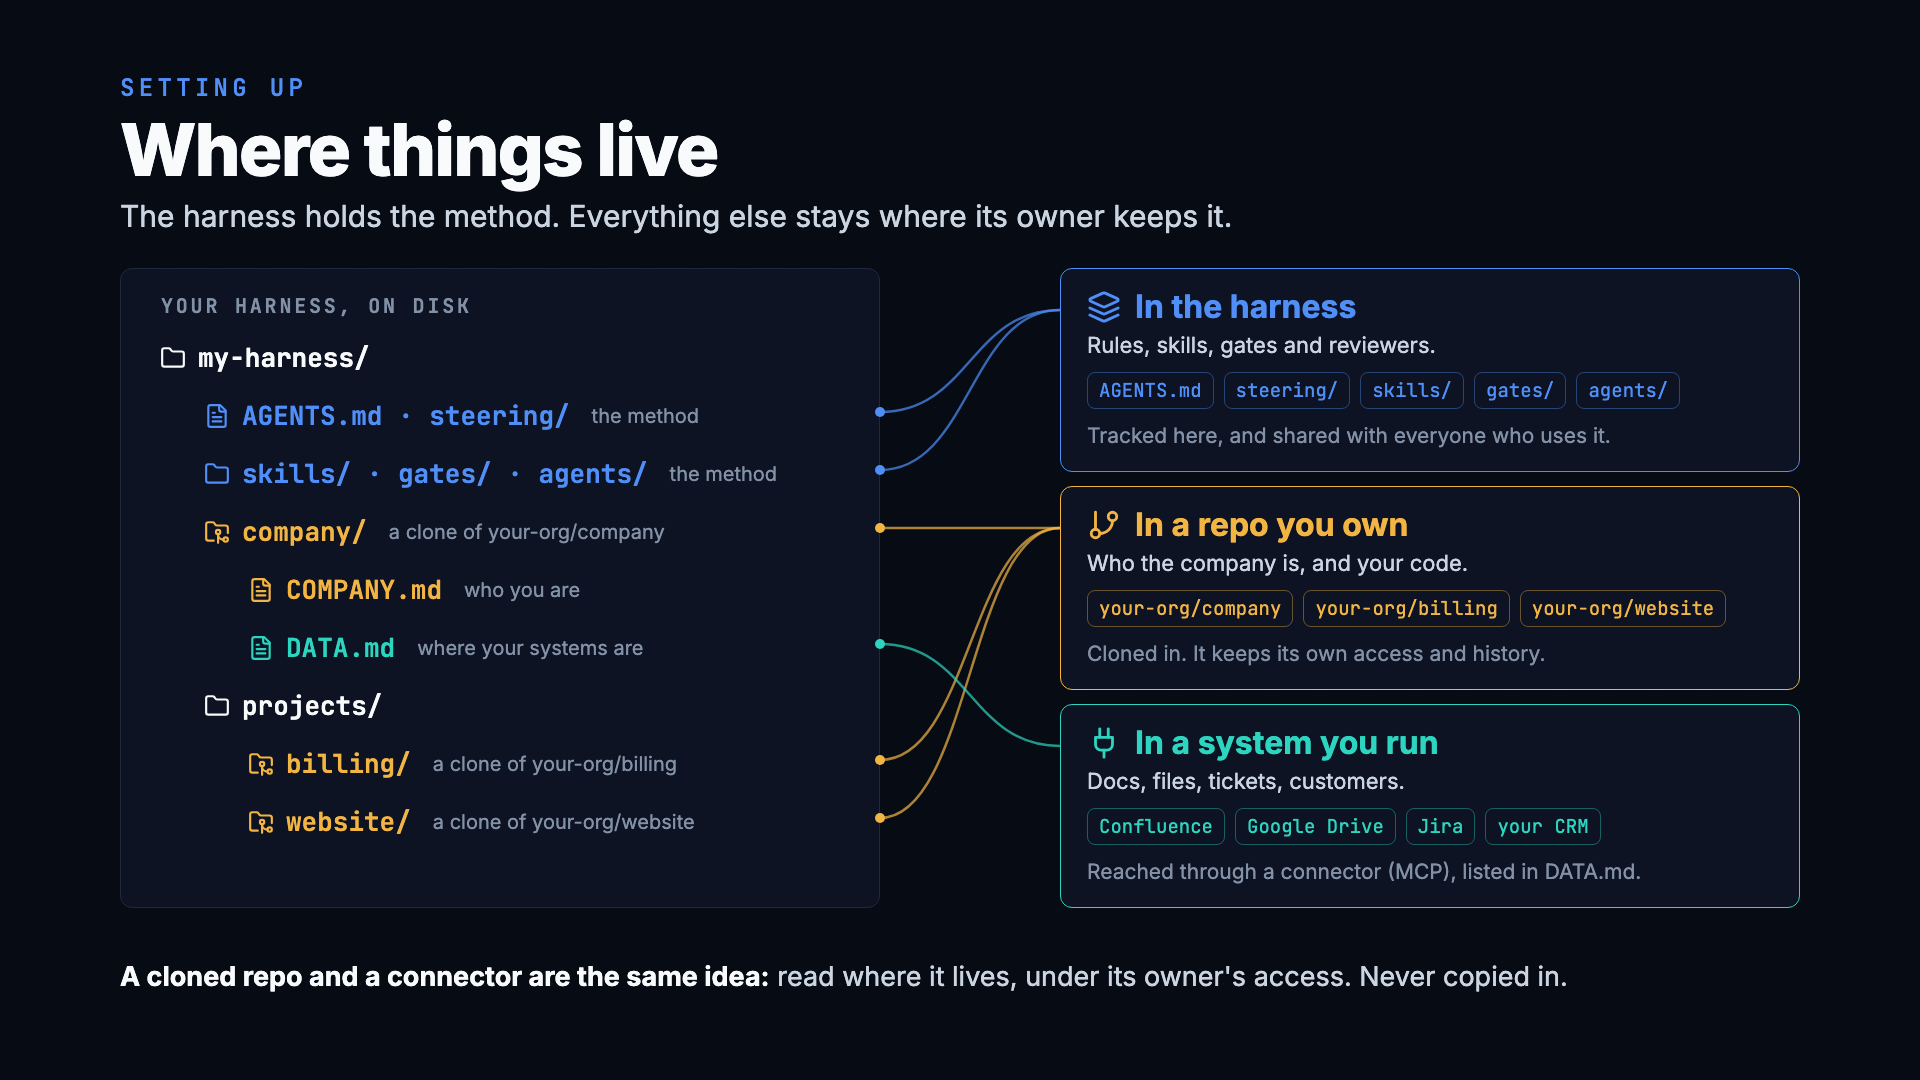
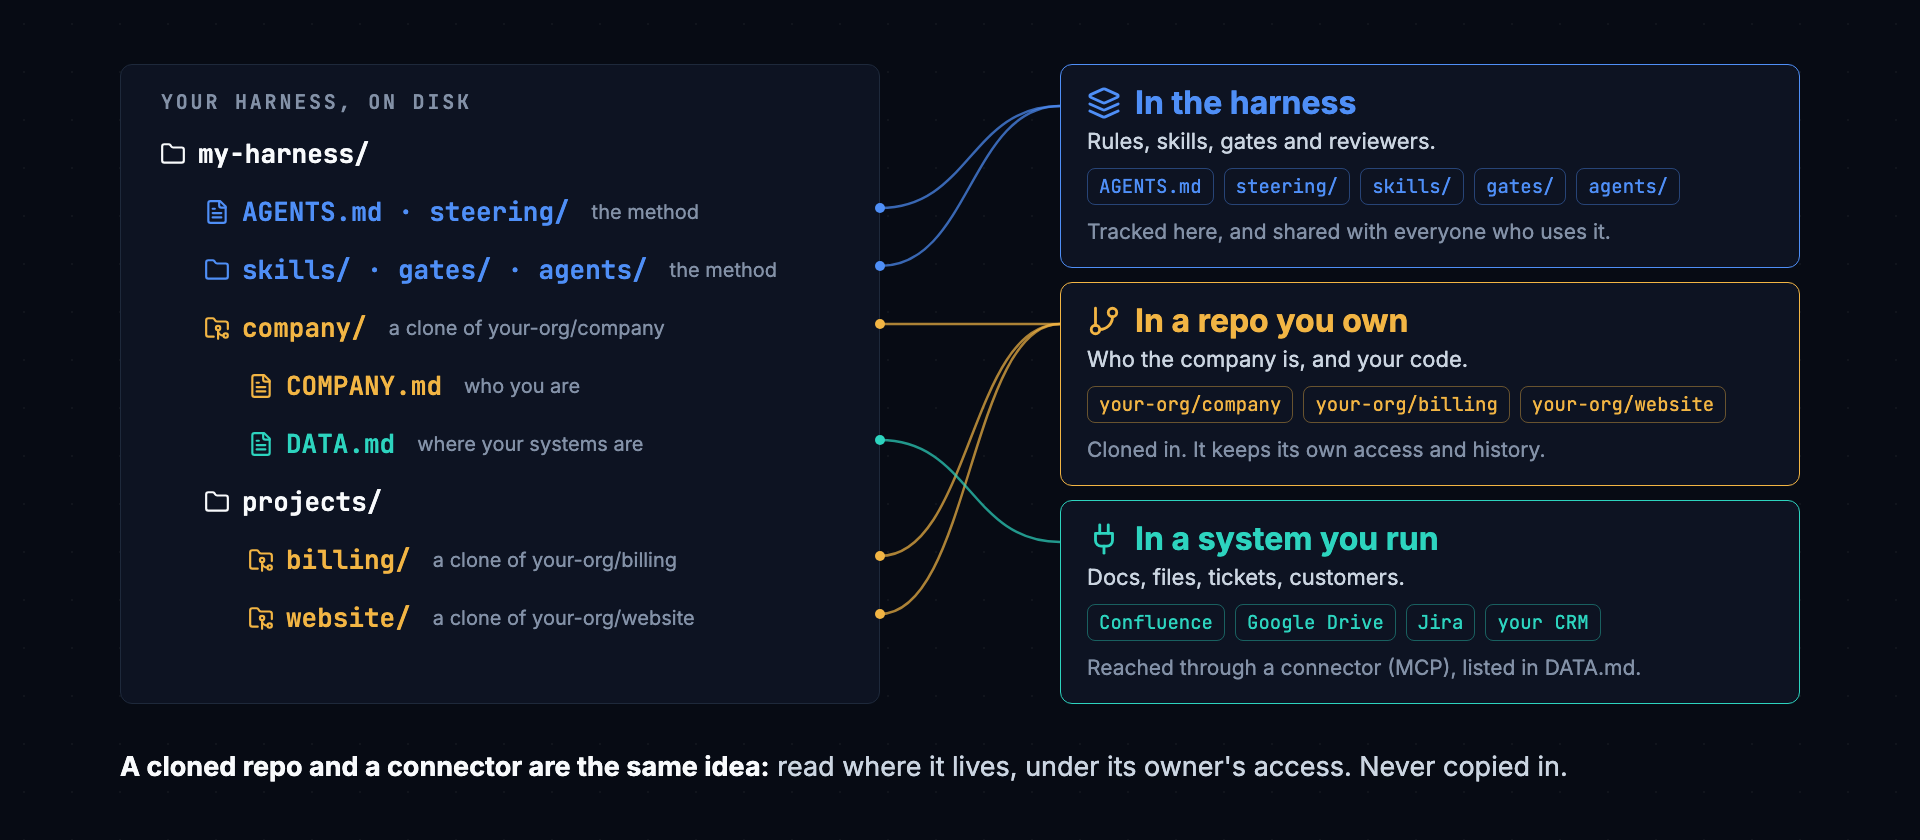
Fold the company setup into the README, and drop the figure's own title (#137)

diff --git a/tests/test_steering.py b/tests/test_steering.py
@@ -38,8 +38,8 @@ SHIPPED = ["steering/*.md", "examples/**/*", "skills/orientation/*", "skills/lea
            "skills/review-pr/*", "skills/review-tests/*", "skills/review-skill/*",
            "skills/whats-new/*", "CHANGELOG.md",
            "agents/reviewer.md", "agents/security-reviewer.md", "agents/ceo.md", "agents/cto.md",
-           "agents/cmo.md", "agents/gc.md", "gates/README.md", "docs/company.md",
-           "docs/COMPANY.example.md", "projects/README.md", "README.md", "HOW-IT-WORKS.md",
+           "agents/cmo.md", "agents/gc.md", "gates/README.md",
+           "projects/README.md", "README.md", "HOW-IT-WORKS.md",
            "EXERCISES.md", "STARTER-SKILLS.md", "scripts/*", "tests/*", ".claude/**/*",
            ".githooks/*", ".github/**/*"]
 
@@ -102,7 +102,13 @@ class WhereThingsLive(unittest.TestCase):
     def test_readme_names_the_three_places(self):
         text = section((ROOT / "README.md").read_text(), "## Where things live", "## ")
         self.assertTrue(text, "README.md has no ## Where things live section")
-        rows = [line for line in text.splitlines() if line.startswith("|")]
+        # The section's first table; a later one (the forms company/ takes) is its own.
+        rows = []
+        for line in text.splitlines():
+            if line.startswith("|"):
+                rows.append(line)
+            elif rows:
+                break
         body = [line for line in rows[1:] if not re.match(r"^\|[\s|:-]+\|$", line)]
         self.assertEqual(len(body), 3, "the table should have one row per place things live")
         self.assertIn("company/DATA.md", text)

diff --git a/skills/orientation/SKILL.md b/skills/orientation/SKILL.md
@@ -168,8 +168,8 @@ Fill it from the person's answers, not the example rows. Write on a yes.
 
 Say once that `company/` is gitignored, so this stays on their machine, and that
 every session reads it: the next agent that opens the repo knows where to look
-without asking. [`docs/company.md`](../../docs/company.md) says how to share it with a team once their
-copy is private.
+without asking. The README's [Where things live](../../README.md#where-things-live) says how to share it with a
+team once their copy is private.
 
 ### 5. Write the company record
 
@@ -183,7 +183,7 @@ in the form it's in.
 
 **Here.** The record is local files in `company/`. Interview for it:
 
-1. If `company/COMPANY.md` doesn't exist, copy [`docs/COMPANY.example.md`](../../docs/COMPANY.example.md)
+1. If `company/COMPANY.md` doesn't exist, copy [`COMPANY.example.md`](COMPANY.example.md)
    there. If it does, read it and only ask about the sections still empty. A
    section is empty when everything under its heading is blank or an HTML
    comment: the `<!-- -->` prompts are not answers.
@@ -213,7 +213,7 @@ one. `python3 scripts/check_setup.py` checks that the repo is private.
 **In a wiki.** The answers live on wiki pages, and the record points at them.
 For each section, ask which page holds its answer, and write
 `company/COMPANY.md` with the page's space and name under each heading, in the
-pointer form shown at the top of [`docs/COMPANY.example.md`](../../docs/COMPANY.example.md). Write as you go,
+pointer form shown at the top of [`COMPANY.example.md`](COMPANY.example.md). Write as you go,
 as above. Don't open the pages to copy their contents in. Then draft a row for the wiki in
 `company/DATA.md`, with its connector and whether it's cleared, sorted as in
 step 3, and write it on a yes. If the connector isn't live in this session,

diff --git a/README.md b/README.md
@@ -93,14 +93,23 @@ A cloned repo and a connector are one idea for different storage. Each is
 reached where it lives, stays under its owner's access control, and the
 harness records only where it is.
 
-`company/` can take any of three forms:
+Every session reads `company/COMPANY.md` (who the company is) and
+`company/DATA.md` (where its data lives) before company work, because
+[`AGENTS.md`](AGENTS.md) says so. The record can take four forms. Pick by who should see it:
 
-- Local files, written by `/orientation`
-- A private repo cloned in with `git clone <url> company`
-- A short `COMPANY.md` whose sections name the wiki pages that hold the
-  answers, with that wiki's connector in `DATA.md`
+| Form | Fits when |
+|---|---|
+| Local files, written by `/orientation` (the default) | You work alone, or haven't decided yet |
+| Committed in a private copy of the harness | Your whole team shares one private harness |
+| A private repo cloned in with `git clone <url> company` | Several harnesses or people share one record, or the harness is public and the record can't be |
+| A short `COMPANY.md` whose sections name wiki pages, with the wiki's connector in `DATA.md` | The answers already live in a wiki |
 
-[`docs/company.md`](docs/company.md) has the detail.
+`company/` is gitignored, so by default the record stays on your machine. To
+commit it in your copy, first check the copy is private
+(`gh repo view --json visibility -q .visibility` prints `PRIVATE`), then
+delete the `company/` line from [`.gitignore`](.gitignore). With a company repo,
+`python3 scripts/check_setup.py` asks GitHub for its visibility and fails if
+it's public.
 
 ## The five layers, one step at a time
 

diff --git a/CHANGELOG.md b/CHANGELOG.md
@@ -27,6 +27,19 @@ never changes once it's written, because copies are compared by it. Under it:
 what it adds in a sentence or two, the files, and a **Do:** line ("nothing" is
 fine).
 
+## 2026-10-17: Company setup lives in the README
+
+How to keep the company record now sits in the README's *Where things live*
+section, with the four forms it can take and how to share it, instead of in
+a separate `docs/company.md`. The company record template moved next to the
+skill that uses it, and the section's figure lost its own title, since the
+README heading above it already says it.
+
+Files: [`README.md`](README.md), [`docs/where-things-live.png`](docs/where-things-live.png), [`skills/orientation/SKILL.md`](skills/orientation/SKILL.md), [`skills/orientation/COMPANY.example.md`](skills/orientation/COMPANY.example.md), [`tests/test_steering.py`](tests/test_steering.py)
+
+**Do:** nothing. A link to `docs/company.md` now goes to the README's
+*Where things live* section.
+
 ## 2026-10-17: Where things live
 
 The README has a new *Where things live* section: the harness holds the method,
